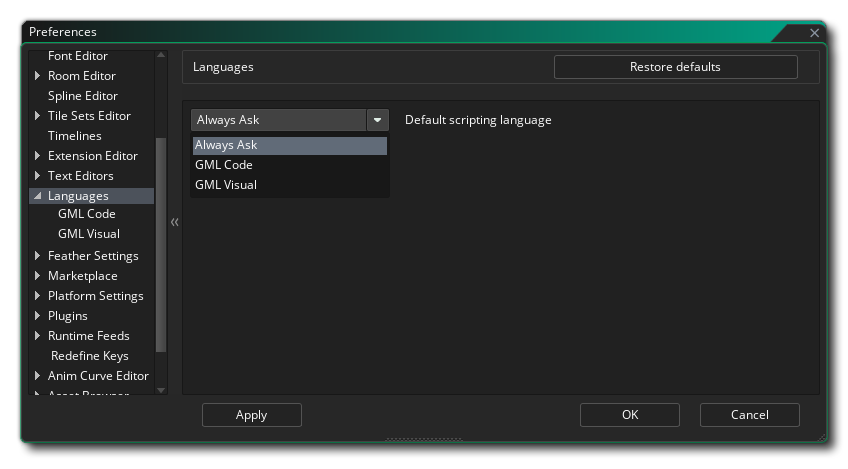
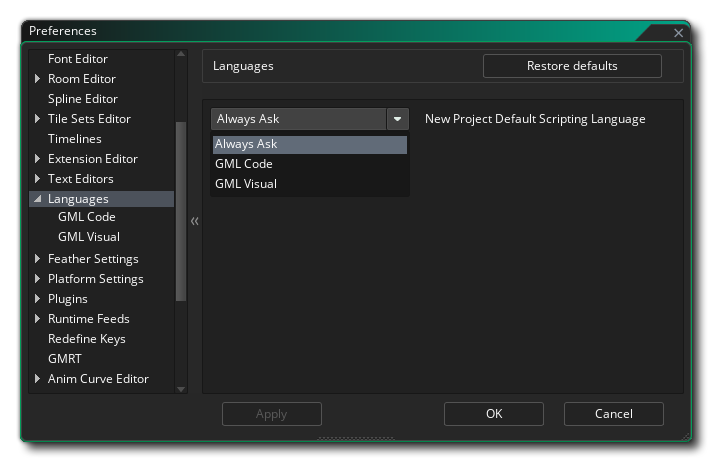
docs(general): renamed default scripting language preference YoYoGames/GameMaker-Bugs#9976
Renamed the default scripting language preference and updated the screenshot

diff --git a/Manual/contents/Setting_Up_And_Version_Information/IDE_Preferences/Language_Preferences.htm b/Manual/contents/Setting_Up_And_Version_Information/IDE_Preferences/Language_Preferences.htm
@@ -4,7 +4,7 @@
 <head>
   <meta http-equiv="Content-Type" content="text/html; charset=utf-8" />
   <title>Language Preferences</title>
-  <meta name="generator" content="Adobe RoboHelp 2020" />
+  <meta name="generator" content="Adobe RoboHelp 2022" />
   <link rel="stylesheet" href="../../assets/css/default.css" type="text/css" />
   <script src="../../assets/scripts/main_script.js" type="module"></script>
   <meta name="rh-authors" content="Gurpreet S. Matharoo" />
@@ -18,7 +18,7 @@
   <p><img alt="The Language Preferences" class="center" src="../../assets/Images/Setup_And_Version/Preferences/Language_GML_Prefs.png" /></p>
   <p>The <strong>Language Preferences</strong> contain options for GameMaker Language:</p>
   <ul class="colour">
-    <li><strong>Default scripting language</strong>: Choose between <a data-xref="{title}" href="../../GameMaker_Language/GameMaker_Language_Index.htm">GML Code</a> and <a data-xref="{title}" href="../../Drag_And_Drop/Drag_And_Drop_Index.htm">GML Visual</a> for all scripts that are created throughout all projects. See <a data-xref="{title}" href="../../GameMaker_Language.htm">GameMaker Language</a> for more information.</li>
+    <li><strong>New Project Default Scripting Language</strong>: Choose between <a data-xref="{title}" href="../../GameMaker_Language/GameMaker_Language_Index.htm">GML Code</a> and <a data-xref="{title}" href="../../Drag_And_Drop/Drag_And_Drop_Index.htm">GML Visual</a> for all scripts that are created throughout all projects. See <a data-xref="{title}" href="../../GameMaker_Language.htm">GameMaker Language</a> for more information.</li>
   </ul>
   <p> </p>
   <p>This section contains the following additional preference menus:</p>
@@ -31,11 +31,11 @@
   <div class="footer">
     <div class="buttons">
       <div class="clear">
-        <div style="float:left">Back: <a href="../IDE_Preferences.htm">IDE Preferences</a></div>
-        <div style="float:right">Next: <a data-xref="{title}" href="Feather_Settings.htm">Feather Settings</a><a href="Feather_Settings.htm"></a></div>
+        <div style="float:left">Back: <a data-xref="{title}" href="../IDE_Preferences.htm">IDE Preferences</a></div>
+        <div style="float:right">Next: <a data-xref="{title}" href="Feather_Settings.htm">Feather</a></div>
       </div>
     </div>
-    <h5><span data-keyref="Copyright Notice">© Copyright YoYo Games Ltd. 2022 All Rights Reserved</span></h5>
+    <h5><span data-keyref="Copyright Notice">© Copyright YoYo Games Ltd. 2025 All Rights Reserved</span></h5>
   </div>
   <!-- KEYWORDS
 Preferences - Languages
